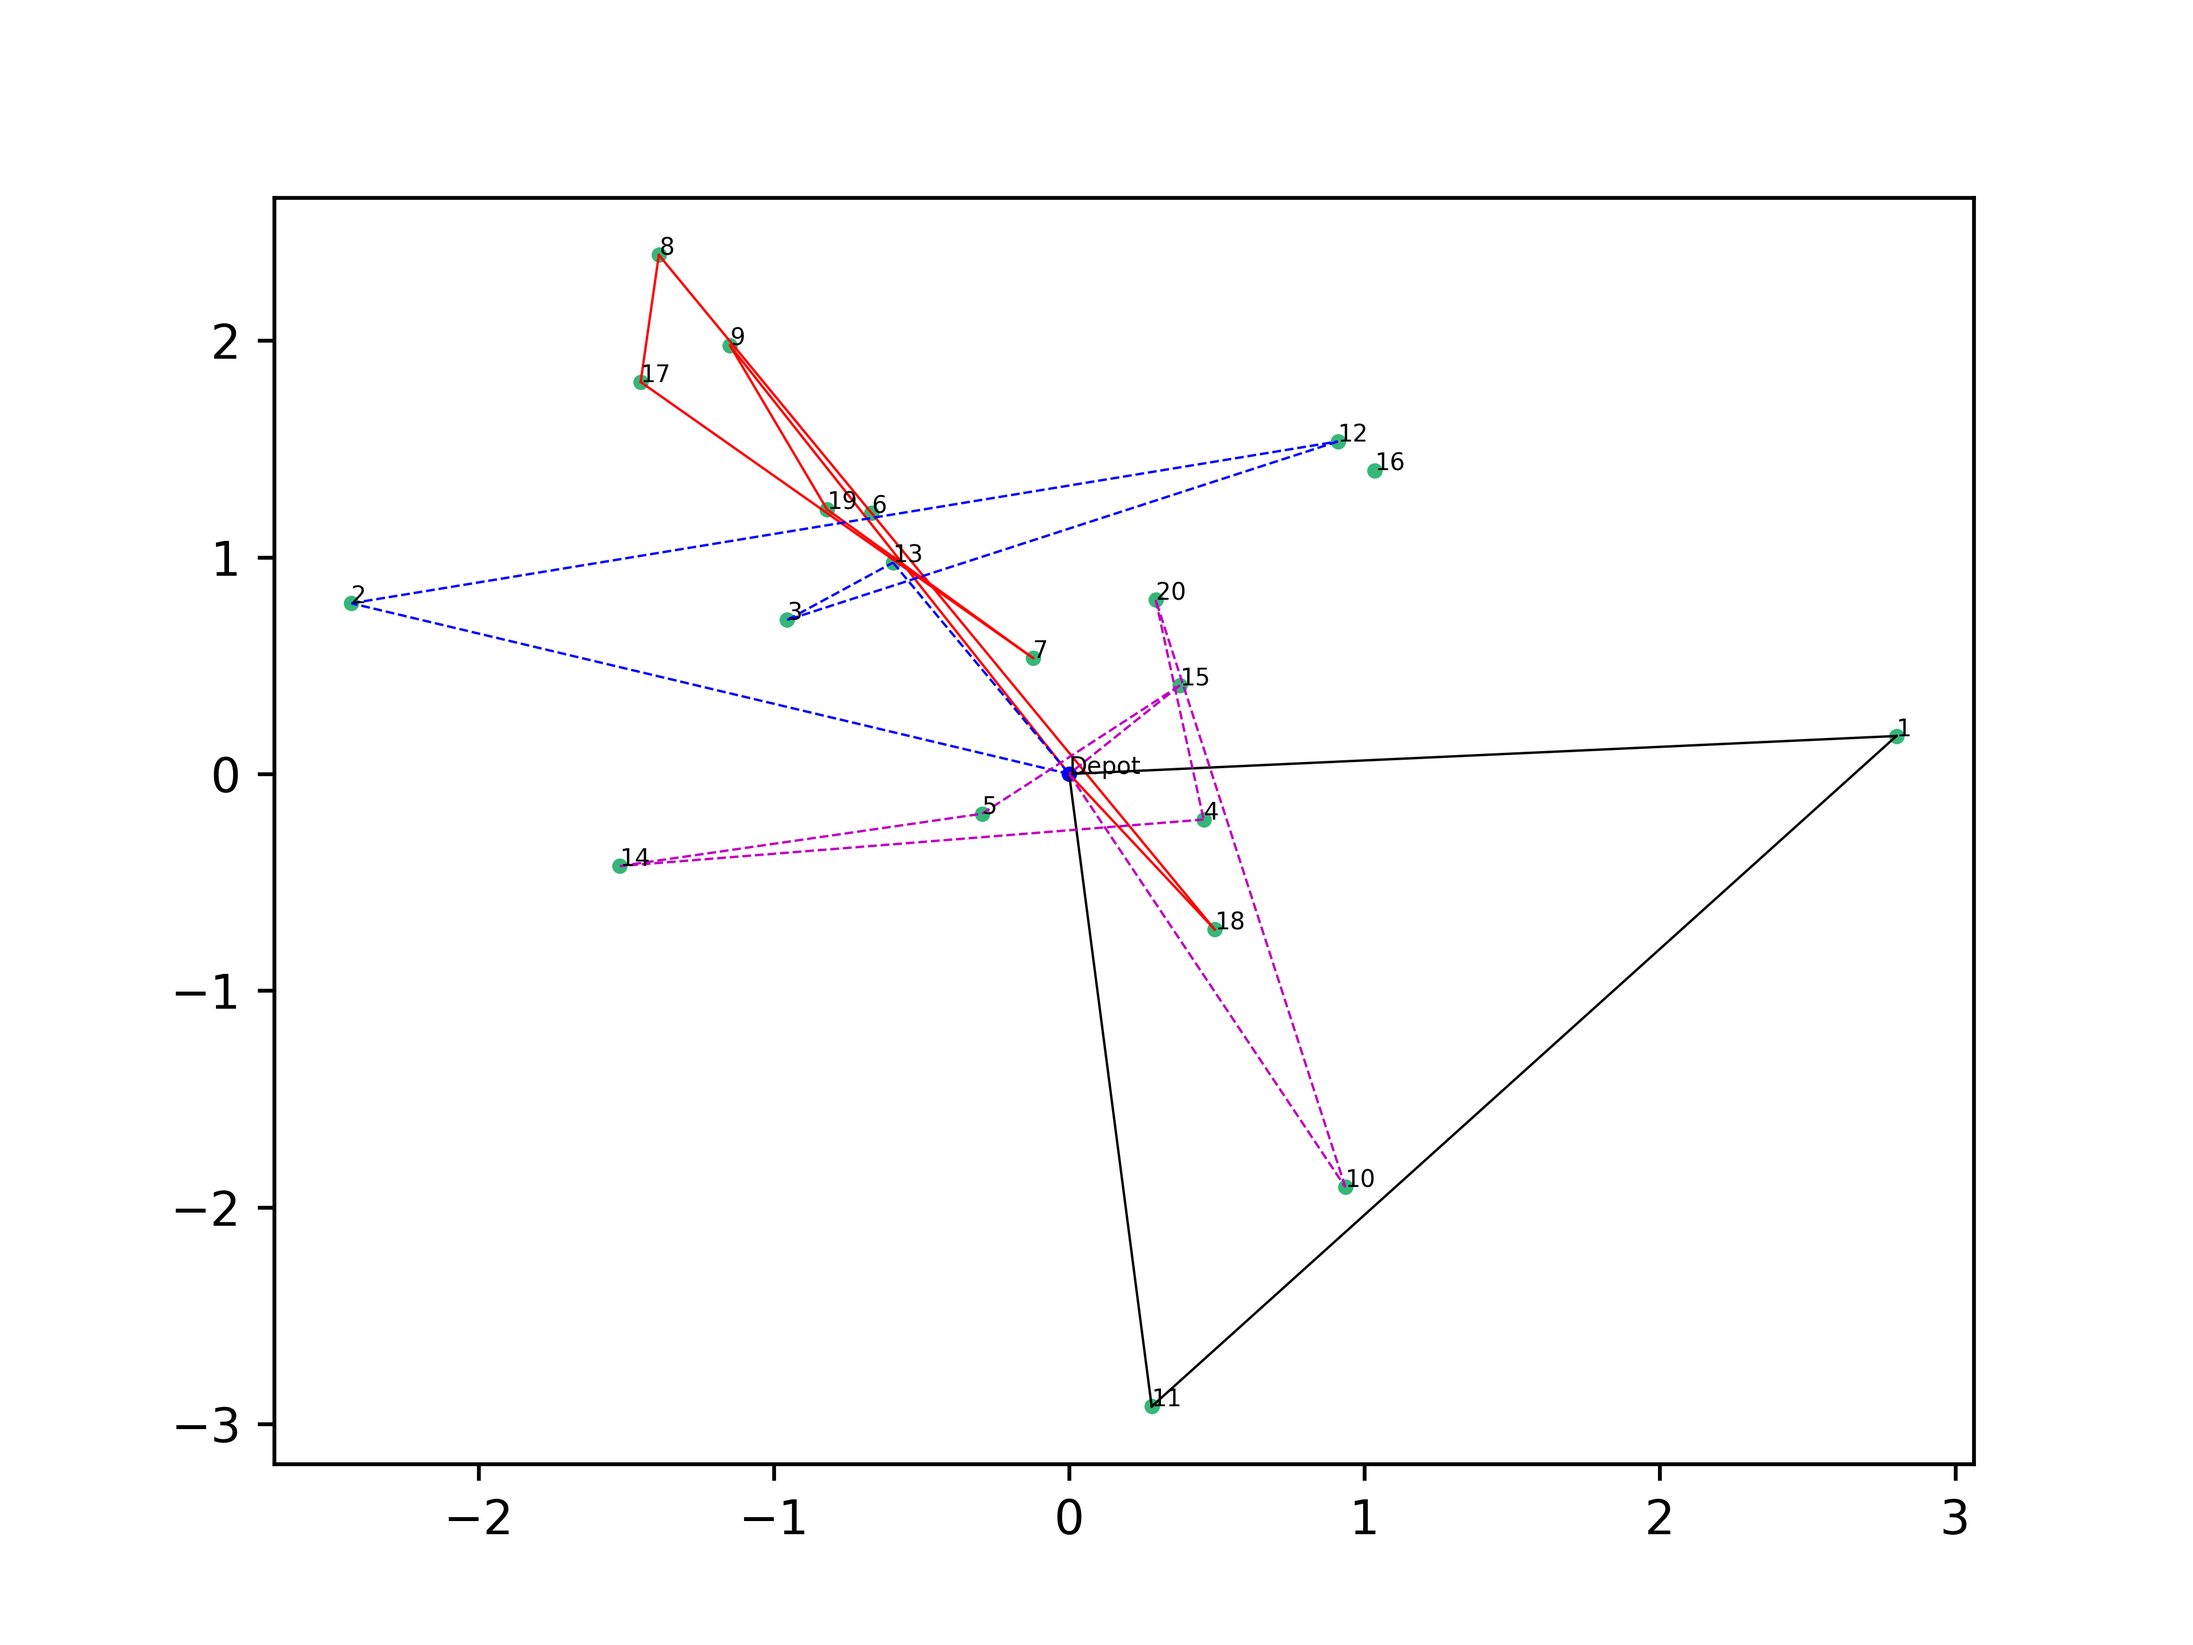
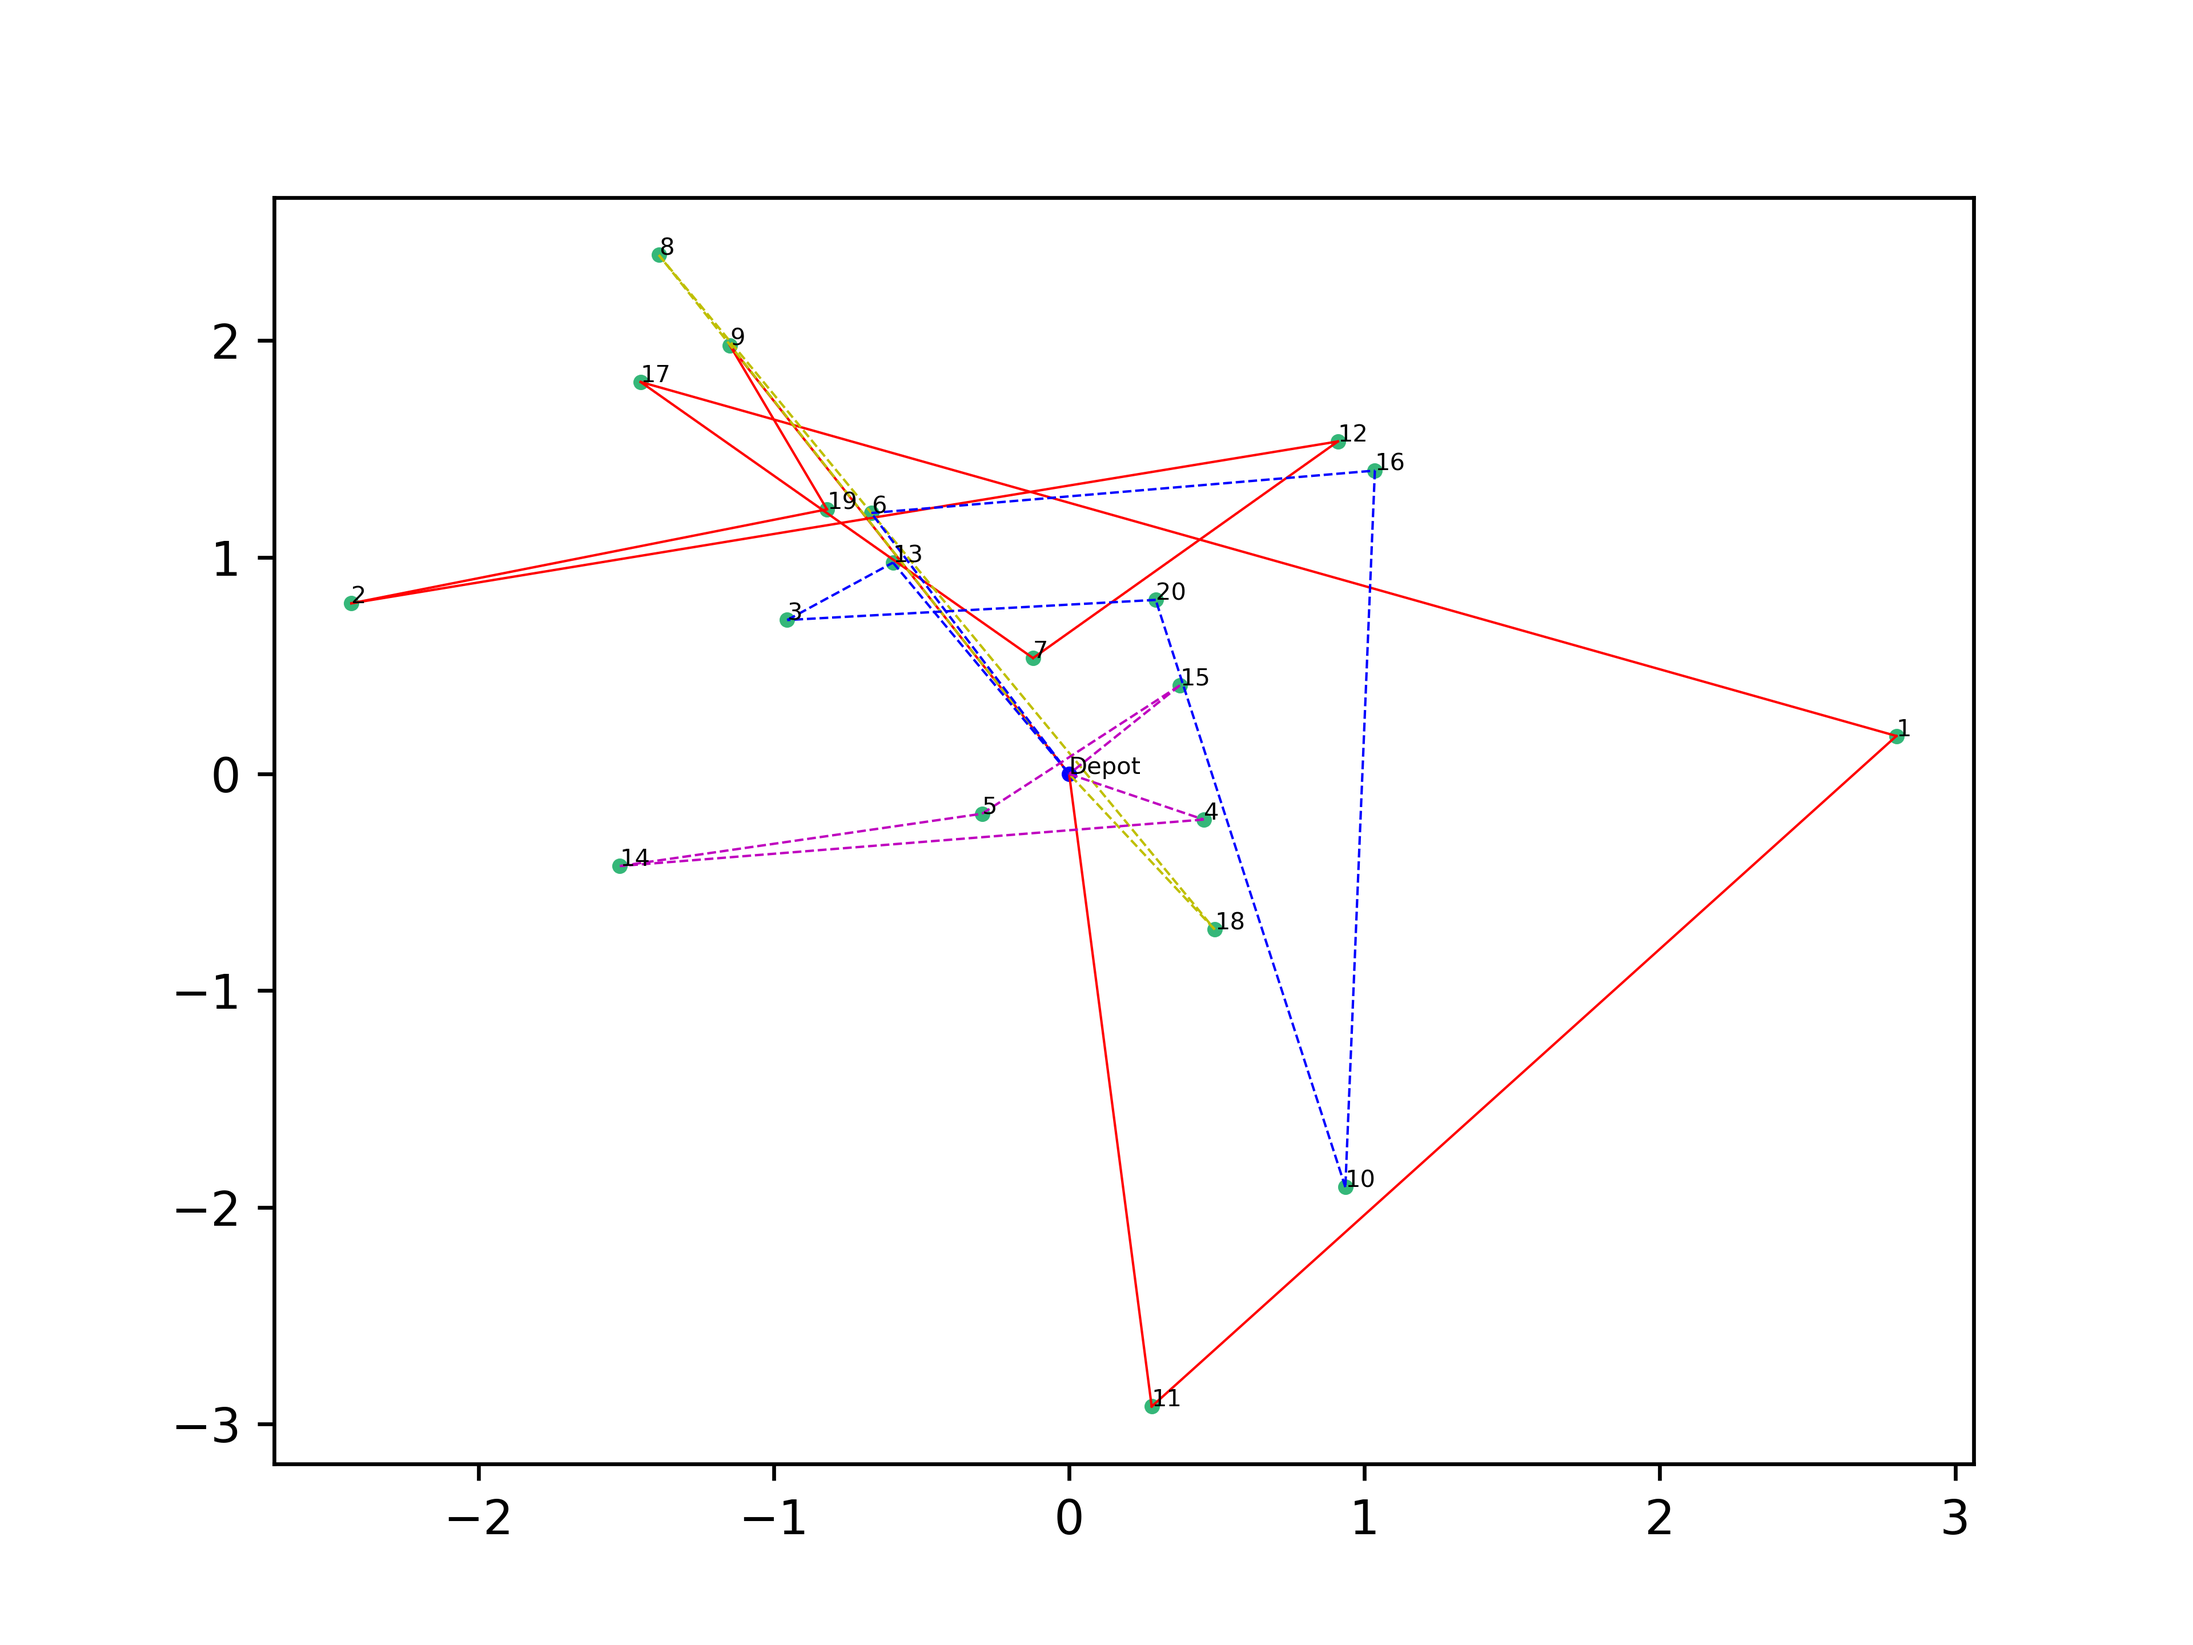
worst_removal_1.0

diff --git a/code/removal_requests.py b/code/removal_requests.py
@@ -8,34 +8,34 @@ import copy
 from removal_order import *
 
 
-def random_removal(solution, q, algorithm_input_data):
-    removal_solution = copy.deepcopy(solution)
-    q_orders = []
-    while len(q_orders) < q:
-        # 随机选择车辆
-        truck_remove_order = random.choice(list(removal_solution.values()))
-        # 订单移除
-        if truck_remove_order.order:
-            # 随机选择订单
-            q_order = random.choice(truck_remove_order.order)
-            q_orders.append(q_order)
-            truck_remove_order.order.remove(q_order)
-            # 更新其他参数
-            Pickup = algorithm_input_data.OAs.loc[q_order, 'Pickup']
-            Pickup_position = truck_remove_order.route.index(Pickup)
-            truck_remove_order.route.remove(Pickup)
-            truck_remove_order.travel_distance_line_of_route_update_remove(Pickup_position, algorithm_input_data)
-
-            Deliver = algorithm_input_data.OAs.loc[q_order, 'Deliver']
-            Deliver_position = truck_remove_order.route.index(Deliver)
-            truck_remove_order.route.remove(Deliver)
-            truck_remove_order.travel_distance_line_of_route_update_remove(Deliver_position, algorithm_input_data)
-            # 时间和载重线更新
-            truck_remove_order.check_and_update(Pickup_position, algorithm_input_data)
-
-            removal_solution[truck_remove_order.id] = truck_remove_order
-
-    return q_orders, removal_solution
+# def random_removal(solution, q, algorithm_input_data):
+#     removal_solution = copy.deepcopy(solution)
+#     q_orders = []
+#     while len(q_orders) < q:
+#         # 随机选择车辆
+#         truck_remove_order = random.choice(list(removal_solution.values()))
+#         # 订单移除
+#         if truck_remove_order.order:
+#             # 随机选择订单
+#             q_order = random.choice(truck_remove_order.order)
+#             q_orders.append(q_order)
+#             truck_remove_order.order.remove(q_order)
+#             # 更新其他参数
+#             Pickup = algorithm_input_data.OAs.loc[q_order, 'Pickup']
+#             Pickup_position = truck_remove_order.route.index(Pickup)
+#             truck_remove_order.route.remove(Pickup)
+#             truck_remove_order.travel_distance_line_of_route_update_remove(Pickup_position, algorithm_input_data)
+#
+#             Deliver = algorithm_input_data.OAs.loc[q_order, 'Deliver']
+#             Deliver_position = truck_remove_order.route.index(Deliver)
+#             truck_remove_order.route.remove(Deliver)
+#             truck_remove_order.travel_distance_line_of_route_update_remove(Deliver_position, algorithm_input_data)
+#             # 时间和载重线更新
+#             truck_remove_order.check_and_update(Pickup_position, algorithm_input_data)
+#
+#             removal_solution[truck_remove_order.id] = truck_remove_order
+#
+#     return q_orders, removal_solution
 
 
 def relatedness_calculate_all(solution, algorithm_input_data):
@@ -119,8 +119,121 @@ def shaw_removal(solution, q, p, algorithm_input_data):
         # 排序,升序，数据类为[()...]
         relatedness_i_with_any_sorted = sorted(relatedness_i_with_any.items(), key=lambda kv: (kv[1], kv[0]))
         y = random.random()
-        new_choice = int((y**p) * len(relatedness_i_with_any_sorted))
+        new_choice = int((y ** p) * len(relatedness_i_with_any_sorted))
         D.append(relatedness_i_with_any_sorted[new_choice][0])
     # step 2 移除订单
     solution_shaw = order_removal(solution, D, algorithm_input_data)
     return D, solution_shaw
+
+
+def random_removal(solution, q, algorithm_input_data):  # todo 这里还没加入p，先自己设定，之后再直接在initial_solution这个文件中进行修改
+    p = 3
+    removal_solution = copy.deepcopy(solution)
+    # 记录所有移除的订单
+    q_orders = []
+    # 记录所有order的的cost
+    all_order_cost = []
+    # todo 数据结构为[{truck_id:[order_id,order removal cost]}]
+    # todo 为了计算简便数据结构变更为[[truck_id,order_id,order removal cost]]
+    for truck_id, truck_values in solution.items():
+        print('truck_ID:', truck_id)
+        print('当前车辆的索引为:', truck_id)
+        truck_distance_before = truck_values.travel_distance_line_of_route[-1]
+        print('当前卡车行驶的距离：', truck_distance_before)
+        for ii in truck_values.order:
+            # 索引
+            print('%s车辆的订单为' % truck_id, ii)
+            truck_values_can_change = copy.deepcopy(truck_values)
+            # 计算去掉该点之后的卡车行驶距离
+            Pickup = algorithm_input_data.OAs.loc[ii, 'Pickup']
+            Pickup_position = truck_values_can_change.route.index(Pickup)
+            truck_values_can_change.route.remove(Pickup)
+            truck_values_can_change.travel_distance_line_of_route_update_remove(Pickup_position, algorithm_input_data)
+            truck_distance_after_pickup = truck_values_can_change.travel_distance_line_of_route[-1]
+            print('去掉订单%s的pickup点后车辆%s的行驶距离为' % (ii, truck_id), truck_distance_after_pickup)
+            Deliver = algorithm_input_data.OAs.loc[ii, 'Deliver']
+            Deliver_position = truck_values_can_change.route.index(Deliver)
+            truck_values_can_change.route.remove(Deliver)
+            truck_values_can_change.travel_distance_line_of_route_update_remove(Deliver_position, algorithm_input_data)
+            truck_distance_after = truck_values_can_change.travel_distance_line_of_route[-1]
+            print('去掉订单%s后车辆%s的行驶距离为' % (ii, truck_id), truck_distance_after)
+            cost_ii = [truck_id, ii, truck_distance_before - truck_distance_after]
+            all_order_cost.append(cost_ii)
+        # truck_cost_dict[truck_id]=each_truck_cost
+        # all_order_cost.append(truck_cost_dict)
+    print('未排序前的cost：', all_order_cost)
+    # 按照cost值从小到大排序
+    all_order_cost = sorted(all_order_cost, key=(lambda x: x[2]))
+    print('排序后的cost：', all_order_cost)
+    planned_order = [all_order_cost[i][1] for i in range(len(all_order_cost))]
+    print('排序好的已经规划的订单：', planned_order)
+
+    while len(q_orders) < q:
+        # 随机生成一个[0,1)之间的小数
+        y = random.random()
+        # 目前已经规划好的订单
+        # 在已经排好序的订单中随机选择车辆 索引是在排序好的订单里得到的
+        order_index = int((y ** p) * len(planned_order))
+        q_order = planned_order[order_index]
+        print('打算移除的order为：',q_order)
+        truck_id_to_remove_order = all_order_cost[order_index][0]
+        print('打算移除的order所在的车辆为：',truck_id_to_remove_order)
+        q_orders.append(q_order)
+        all_order_cost.pop(order_index)
+        # 移除当前选中的订单
+        planned_order.remove(q_order)
+        # truck_remove_order = random.choice(list(removal_solution.values()))
+        truck_remove_order = removal_solution[truck_id_to_remove_order]
+        print(truck_remove_order)
+        # 订单移除
+        if truck_remove_order.order:
+            print('第188行的order：',truck_remove_order.order)
+            # 随机选择订单
+            truck_remove_order.order.remove(q_order)
+            # 更新其他参数
+            Pickup = algorithm_input_data.OAs.loc[q_order, 'Pickup']
+            Pickup_position = truck_remove_order.route.index(Pickup)
+            truck_remove_order.route.remove(Pickup)
+            truck_remove_order.travel_distance_line_of_route_update_remove(Pickup_position, algorithm_input_data)
+
+            Deliver = algorithm_input_data.OAs.loc[q_order, 'Deliver']
+            Deliver_position = truck_remove_order.route.index(Deliver)
+            truck_remove_order.route.remove(Deliver)
+            truck_remove_order.travel_distance_line_of_route_update_remove(Deliver_position, algorithm_input_data)
+            # 时间和载重线更新
+            truck_remove_order.check_and_update(Pickup_position, algorithm_input_data)
+            # removal_solution[truck_remove_order.id] = truck_remove_order
+            removal_solution[truck_id_to_remove_order] = truck_remove_order
+
+            # 更新cost列表
+            truck_values = truck_remove_order
+            truck_id = truck_id_to_remove_order
+            truck_distance_before = truck_values.travel_distance_line_of_route[-1]
+            for ii in truck_values.order:
+                # 索引
+                print('%s车辆的订单为' % truck_id, ii)
+                truck_values_can_change = copy.deepcopy(truck_values)
+                # 计算去掉该点之后的卡车行驶距离
+                Pickup = algorithm_input_data.OAs.loc[ii, 'Pickup']
+                Pickup_position = truck_values_can_change.route.index(Pickup)
+                truck_values_can_change.route.remove(Pickup)
+                truck_values_can_change.travel_distance_line_of_route_update_remove(Pickup_position,
+                                                                                    algorithm_input_data)
+                truck_distance_after_pickup = truck_values_can_change.travel_distance_line_of_route[-1]
+                print('去掉订单%s的pickup点后车辆%s的行驶距离为' % (ii, truck_id), truck_distance_after_pickup)
+                Deliver = algorithm_input_data.OAs.loc[ii, 'Deliver']
+                Deliver_position = truck_values_can_change.route.index(Deliver)
+                truck_values_can_change.route.remove(Deliver)
+                truck_values_can_change.travel_distance_line_of_route_update_remove(Deliver_position,
+                                                                                    algorithm_input_data)
+                truck_distance_after = truck_values_can_change.travel_distance_line_of_route[-1]
+                print('去掉订单%s后车辆%s的行驶距离为' % (ii, truck_id), truck_distance_after)
+                cost_ii_change = truck_distance_before - truck_distance_after
+                index_order = planned_order.index(ii)
+                all_order_cost[index_order][2] = cost_ii_change
+            print('未排序前的cost：', all_order_cost)
+            # 按照cost值从小到大排序
+            all_order_cost = sorted(all_order_cost, key=(lambda x: x[2]))
+            print('排序后的cost：', all_order_cost)
+            planned_order = [all_order_cost[i][1] for i in range(len(all_order_cost))]
+    return q_orders, removal_solution
